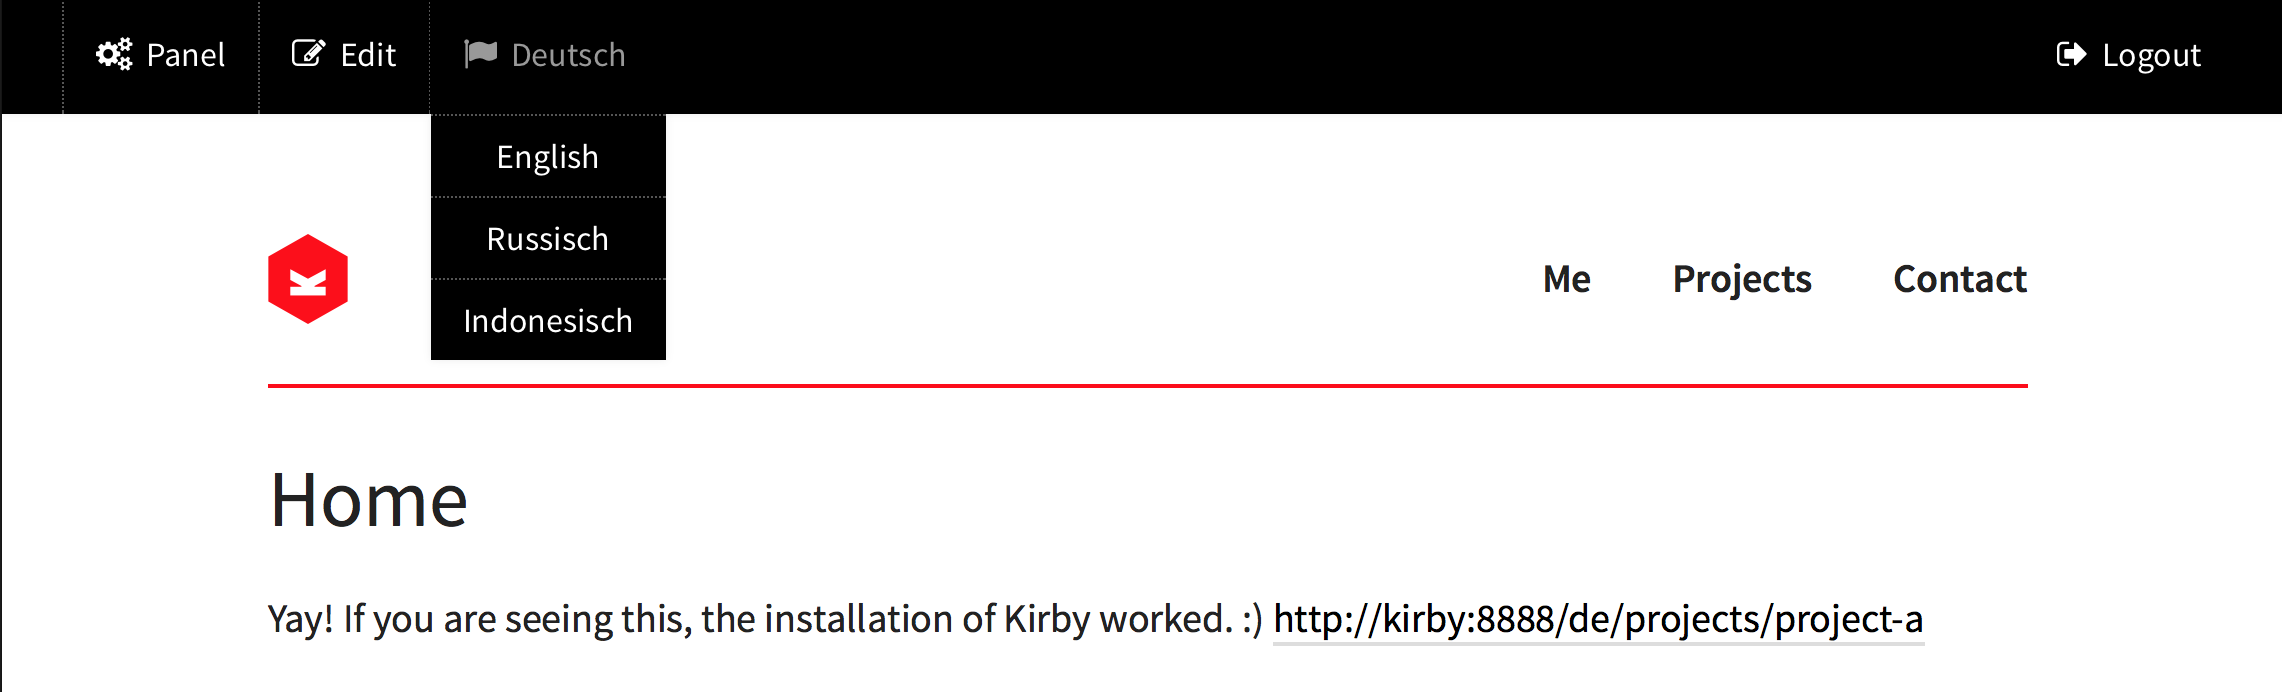
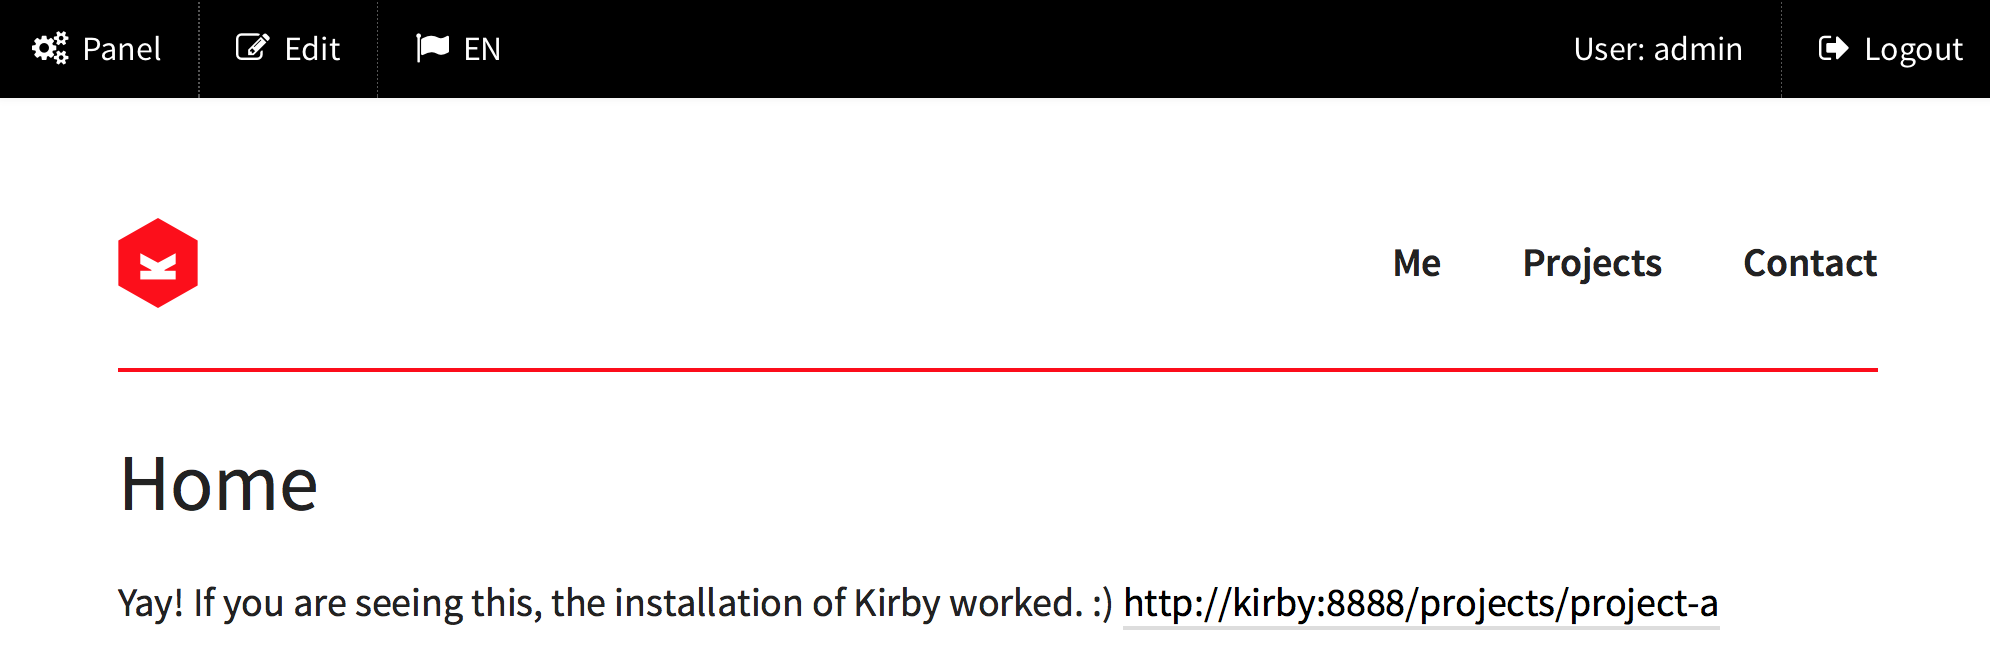
Added current user element

diff --git a/assets/css/panelbar.css b/assets/css/panelbar.css
@@ -34,7 +34,7 @@ body {
   color: #fff;
 }
 
-.panelbar__btn:not(:first-child):not(.panelbar__btn--logout) {
+.panelbar__btn:not(:first-child):not(:last-child) {
   border-left: 1px dotted #555;
 }
 
@@ -42,15 +42,16 @@ body {
 .panelbar__btn > span {
   display: inline-block;
   padding: 10px 18px;
+}
 
+.panelbar__btn a {
   color: #fff;
   transition: none;
 }
 
-.panelbar__btn > a:hover,
+.panelbar__btn a:hover,
 .panelbar__lang:hover  {
   color: #999;
-  transition: none;
 }
 
 .panelbar__btn > a:before,
@@ -61,6 +62,7 @@ body {
 
 /* Logout */
 
+.panelbar__btn--user,
 .panelbar__btn--logout {
   float: right;
 }

diff --git a/panel-bar.php b/panel-bar.php
@@ -3,7 +3,7 @@
 
 class PanelBar {
 
-  public  $defaults  = array('panel', 'edit', 'languages', 'logout');
+  public  $defaults  = array('panel', 'edit', 'languages', 'logout', 'user');
   public  $site      = null;
   public  $page      = null;
 
@@ -57,6 +57,13 @@ class PanelBar {
   protected function logout() {
     $block  = '<div class="panelbar__btn panelbar__btn--logout">';
     $block .= '<a href="'.$this->site->url().'/panel/logout"><span>Logout</span></a>';
+    $block .= '</div>';
+    return $block;
+  }
+
+  protected function user() {
+    $block  = '<div class="panelbar__btn panelbar__btn--user">';
+    $block .= '<span><span>User: </span><a href="'.$this->site->url().'/panel/#/users/edit/'.$this->site->user().'">'.$this->site->user().'</a></span>';
     $block .= '</div>';
     return $block;
   }
